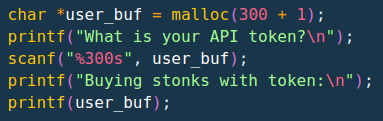
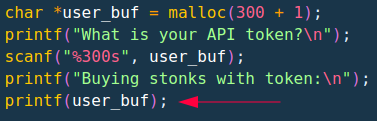
clarity

diff --git a/Binary Exploitation/Stonks/Stonks.md b/Binary Exploitation/Stonks/Stonks.md
@@ -16,16 +16,15 @@ I decided to try something noone else has before. I made a bot to automatically 
 
 ## Solution
 
-Analyzing the C code, notice that the program asks the user to enter the API token. However, it then prints the output directly using `printf`. There is no sanitization done with the percent signs, i.e. `printf("%s", user_buf)`. We can take advantage of this and exploit it.
-
-You can learn more about string formatting attacks at [Syracuse University Lecture Notes](https://web.ecs.syr.edu/~wedu/Teaching/cis643/LectureNotes_New/Format_String.pdf) and [OWASP](https://owasp.org/www-community/attacks/Format_string_attack).
+Analyzing the C code, notice that the program asks the user to enter the API token. It then prints the output directly using `printf`. However, there is no sanitization done with the percent signs, i.e. `printf("%s", user_buf)`. We can take advantage of this and exploit it.
 
 ![code](code.png)
+
+> You can learn more about string formatting attacks at [Syracuse University Lecture Notes](https://web.ecs.syr.edu/~wedu/Teaching/cis643/LectureNotes_New/Format_String.pdf) and [OWASP](https://owasp.org/www-community/attacks/Format_string_attack).
 
 Recall that C stores all its variables in a stack and each new variable is added to the end of the stack.
 
 ![C stack](Cstack.png)
-
 
 Since no santization is done, we can use different string formats (`%s`, `%d`, `%p`, etc.) to print out different variables or pointers. After trying different symbols, notice that `%p` gives an output that seems something like hex. Putting around 30 `%p` gives the string `0x987f3f00x804b0000x80489c30xf7f2ed800xffffffff0x10x987d1600xf7f3c1100xf7f2edc7(nil)0x987e1800x10x987f3d00x987f3f00x6f6369700x7b4654430x306c5f490x345f74350x6d5f6c6c0x306d5f790x5f79336e0x383431360x343565620xffc5007d0xf7f69af80xf7f3c4400x7811d000x1(nil)0xf7dcbce9`, which seems to be a mixture of hex and ascii.
 
@@ -35,7 +34,7 @@ We can use [CyberChef](https://gchq.github.io/CyberChef/) to decrypt the hex cod
 
 ![scrambled flag](scrambledflag.png)
 
-Notice how we get a flag, but it seems like each 4 letter block is reversed (`ocip` instead of `pico`). This is probably a case of endianness, so we can use the `Swap Endinanness` tool, and the flag should appear. If the flag is still scrambled, then delete characters from the beginning of the input string until you see the flag.
+Notice how we get a flag, but it seems like each 4 letter block is reversed (`ocip` instead of `pico`). This is probably a case of endianness, so we can add the `Swap Endinanness` tool, and the flag should appear. If the flag is still scrambled, then delete characters from the beginning of the input string until you see the flag.
 
 ![flag](flag.png)
 
